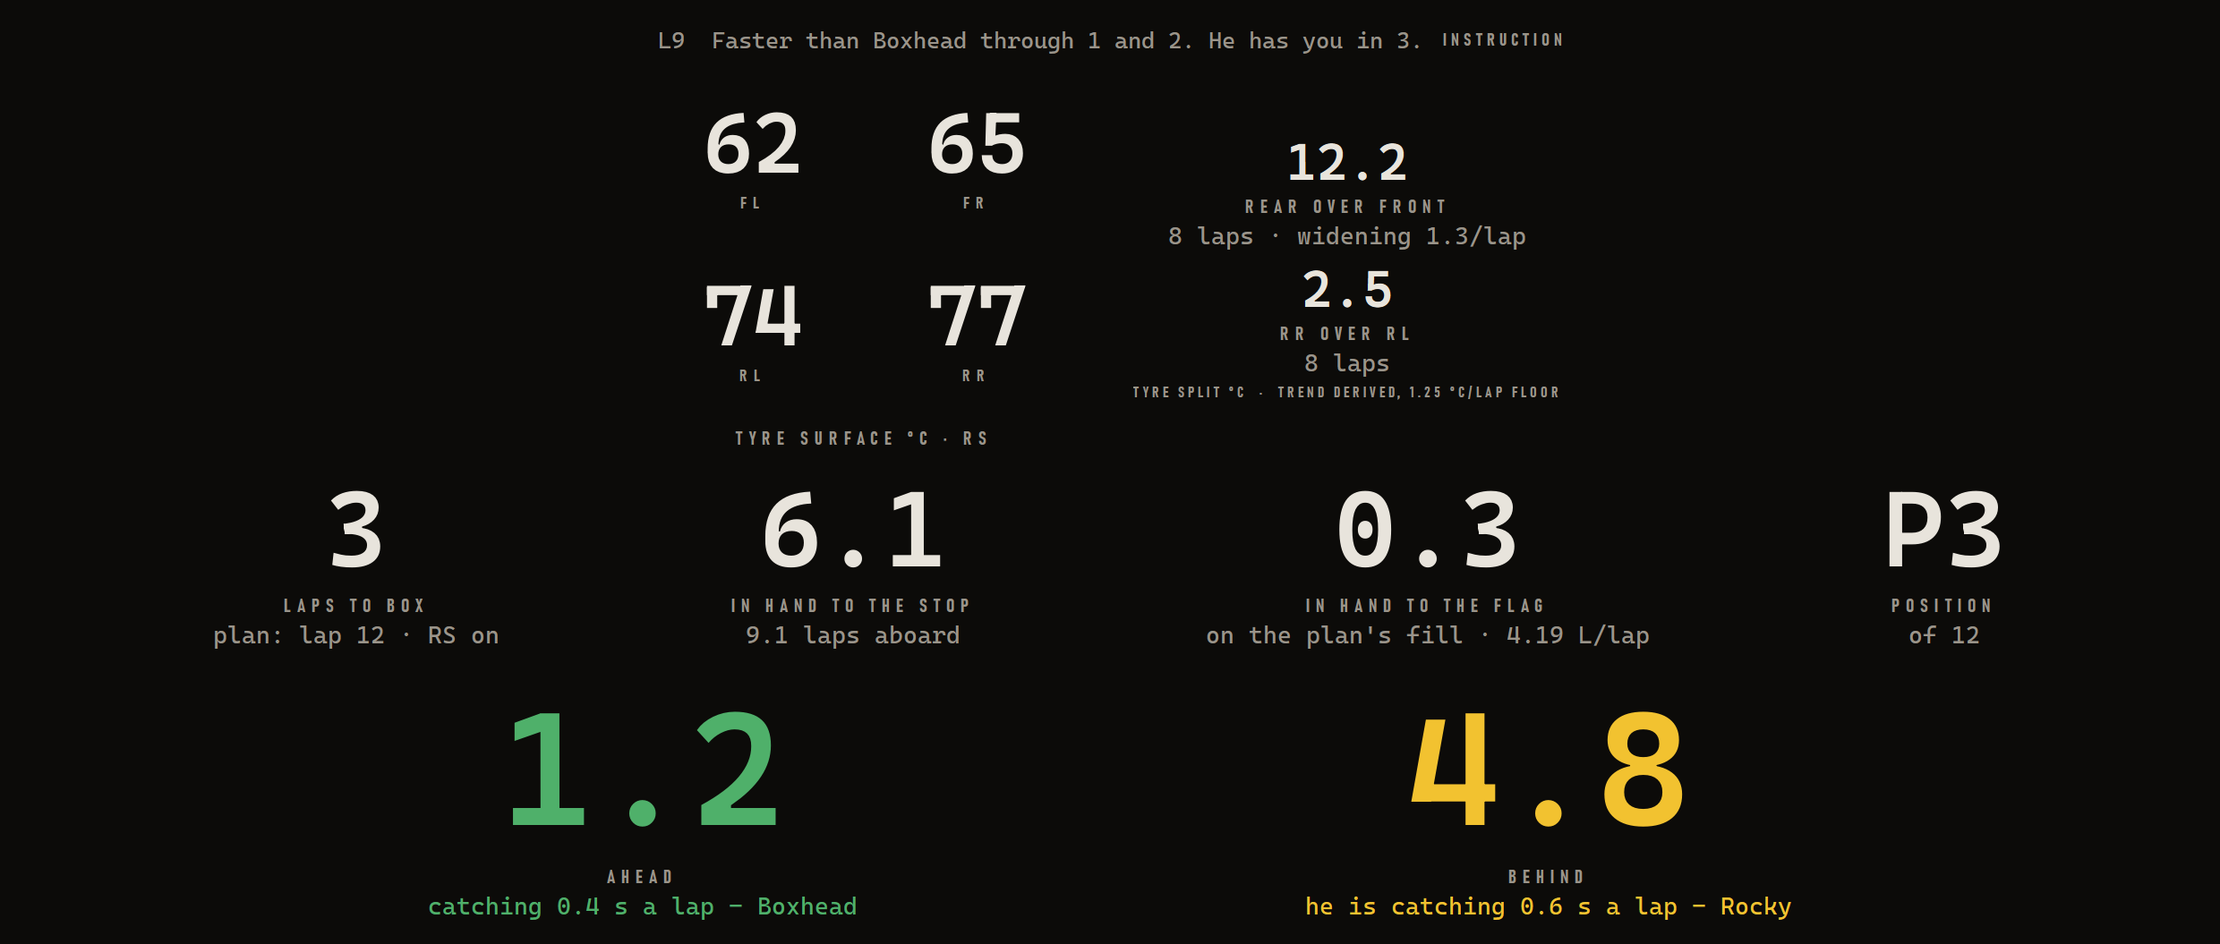
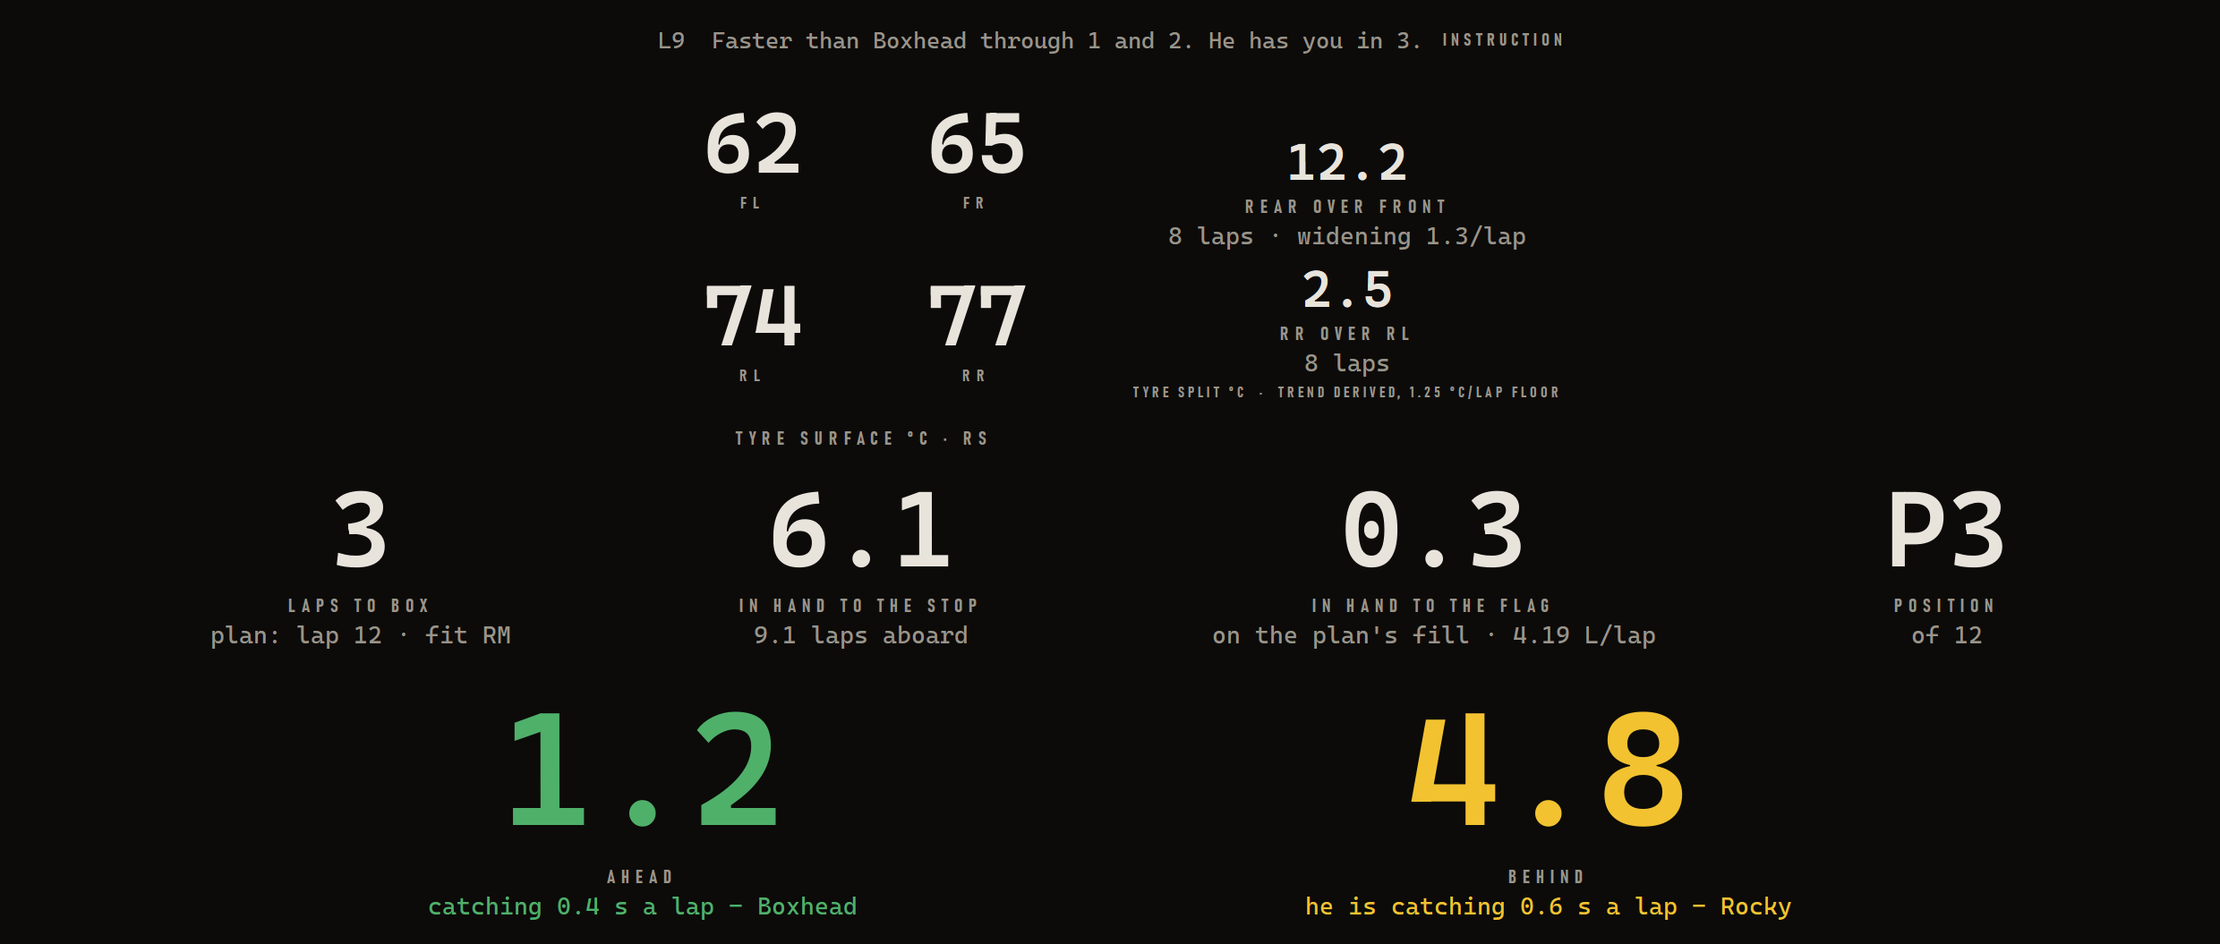
fix(board): critic round six - "no plan" for the last stint of every planned race, and two guards that could not fail
NOT AGREED on 68dbb93. Each finding driven before it was fixed.

**BLOCKER: the board said "no plan" while the plan was running, for the whole
final stint of every race.** `laps_to_stop()` returns None exactly when
`stint_ends_on_lap` is None, and `_apply_stint` sets that to None on the LAST
stint - so `elif state.laps_to_box is None: show_value("--", "no plan")`
never consulted `has_plan`. In a 20-lap one-stop race that is laps 12-20,
45% of it; in a zero-stop plan it is lights to flag. He glances up, reads
that his engineer has no plan, and has no reason to trust `IN HAND TO THE
FLAG 0.3` two blocks along, which is live and right.

This is the THIRD page the same defect has been fixed on. `_BoxPanel` carries
"the board said 'no plan' while a plan was being executed"; the `finished`
branch carries "'no plan' is the wrong thing to tell a man who has just
finished". It says `no stop still to come` now - `race/calls.py`'s own words,
so the board and the fuel block say the same thing about the same fact.

**The tyre decision went missing on the in-lap.** `past_box_lap` fires at
`to_stop == 0`, so the `laps_past_box` branch took over and `_box_caption`
was never called again - on the one lap the decision is executed, and the
whole case for the item is that it asks for a different in-lap and a
different brake balance. The voice says "Box this lap. RS on." there; the
board said nothing. One `_tyre_clause` feeds both captions now, so they
cannot drift again.
[…]

diff --git a/pitcrew/ui/driver_view.py b/pitcrew/ui/driver_view.py
@@ -347,7 +347,7 @@ from PyQt6.QtWidgets import (
 from pitcrew.store.tyres import WEAR_ONSET_C
 # The one vocabulary for how a call was meant, shared with `Call.spoken()` so
 # the word on the screen and the word in his ear are one decision (rule 12).
-from pitcrew.race.calls import MARK_UNCONFIRMED
+from pitcrew.race.calls import MARK_UNCONFIRMED, NO_STOP_TO_COME
 # The trend floor, imported rather than restated: it is derived, its
 # arithmetic is documented where it is defined, and two copies would drift.
 from pitcrew.race.tyre_split import RATE_WORTH_SAYING_C
@@ -813,8 +813,9 @@ class _Stat(QWidget):
     # four blocks across the panel and the lead rank two, so they can afford
     # different amounts; the box panel carries five. Each is the panel's own
     # room divided by the blocks on it, with the margins and the gaps between
-    # them taken off. `test_the_board_fits_his_monitor_in_the_widest_state_it
-    # _can_be_given` is what holds the arithmetic to the actual monitor.
+    # them taken off - see the note below, which is what that turned out to
+    # be worth. `test_the_board_fits_his_monitor_on_the_faces_he_actually_has`
+    # is what holds the board to the actual monitor.
     # **Two faces, and the numbers differ by 1.7.** On the rig, Cascadia Mono
     # at 27 px is 16 px a character, so the middle rank's 640 holds forty and
     # nothing on the board is elided at all. Under the offscreen platform the
@@ -822,13 +823,21 @@ class _Stat(QWidget):
     # a character - twenty-three - and the longest strings DO elide there.
     #
     # **These are not "the panel's room divided by the blocks on it."** They
-    # were described that way and the arithmetic does not hold: four middle
-    # subs at 640 measure 2,792 px offscreen and five box subs at 620 measure
-    # 3,274, both past 2,560. The board fits because the blocks do not all
-    # reach their cap at once - POSITION's sub is `of 12`. What holds the
-    # panel is `test_the_board_fits_his_monitor_on_the_faces_he_actually_has`,
-    # which measures the real faces; these caps stop any ONE reason line
-    # running away.
+    # were described that way and the arithmetic does not hold: driven to
+    # their caps the middle rank and the box page both measure past 2,560
+    # offscreen. The board fits because the blocks do not all reach their cap
+    # at once - POSITION's sub is `of 12`.
+    #
+    # **On the rig these caps never fire at all**, because his face is 16 px
+    # a character and the longest string on the board is well inside them. So
+    # what they are is insurance against a string nobody has written yet, and
+    # what holds the panel is
+    # `test_the_board_fits_his_monitor_on_the_faces_he_actually_has`. That
+    # test's HEIGHT leg bites - `GAP_PX = 210` and `LINES = 3` both fail it -
+    # and its width leg cannot, because the real-face board has some 600 px
+    # of headroom. Stated rather than engineered around: the width is not
+    # under threat and pretending a guard tests it would be worse than
+    # saying it does not.
     MIDDLE_SUB_W = 640
     GAP_SUB_W = 1100
     SPLIT_SUB_W = 700
@@ -1150,10 +1159,12 @@ class DriverWindow(QWidget):
         # board), then 2457x1031 (not reproducible - the same state measures
         # differently depending on what was drawn before it and on the face
         # the stylesheet resolves to). What IS checked is the bound:
-        # `test_the_board_fits_his_monitor_in_the_widest_state_it_can_be_given`
-        # drives every refusal string, a sixteen-character rival name, the
-        # box panel and a call three times longer than any the engineer makes,
-        # and holds the result under 2560 x 1080. This opens just inside that. It is not a free choice
+        # `test_the_board_fits_his_monitor_on_the_faces_he_actually_has`
+        # measures the real faces in a subprocess and holds 2560 x 1080; its
+        # offscreen sibling sweeps every refusal string, a sixteen-character
+        # rival name, the box page and a call three times longer than any the
+        # engineer makes, and holds a growth ceiling. This opens above the
+        # real-face minimum, and Qt grows it where a state needs more. It is not a free choice
         # - the ranks are set by how far away he is and how long a glance is,
         # and the panel is 2560x1080 - so the honest thing is to open at a
         # size the content fits in.
@@ -1396,6 +1407,15 @@ class _BoxPanel(QWidget):
             # a dash where the opposite decision gets the word NO TYRES is how
             # he takes a fuel-only stop the plan did not ask for.
             self.tyre_stat.show_value("NEW SET", "plan · set not named")
+        elif state.past_the_plan:
+            # **Past the end of the stint list is not "the plan did not name
+            # a compound".** An unplanned splash sets `past_the_plan` and
+            # leaves `next_tyres` and `next_compound` None, and this block
+            # said the plan had asked for a stop and not named a tyre while
+            # the block beside it said the plan does not reach this stop at
+            # all. He fits tyres nobody asked for - three seconds and a cold
+            # out-lap (CLAUDE.md 5.4).
+            self.tyre_stat.show_value("--", "past the plan")
         elif state.has_plan:
             self.tyre_stat.show_value("--", "plan: no compound")
         else:
@@ -1659,14 +1679,40 @@ class DriverView(QWidget):
             widget.show_value(temps.get(corner), kind, lopsided,
                               pair_gap(corner, temps),
                               (state.split_rates or {}).get(corner))
+        # **Say when there is no threshold at all.** With no compound
+        # `onset_for` is None, `classify` returns "cool", and the four
+        # numbers paint in the same white a measured-below-onset reading
+        # gets - so 96 degC on an unknown set draws exactly like 60, and this
+        # file's own docstring says that white claims "not yet wearing faster
+        # for heat". It cannot claim that with nothing to compare against.
+        # `_apply_stint(over_a_stop=True)` clears `tyre_compound` whenever
+        # the stint the stop starts names none, so it is reachable, and a
+        # plan naming no compounds leaves it None all race.
         self.tyre_caption.setText(
-            "TYRE SURFACE °C" if not state.compound
-            else f"TYRE SURFACE °C · {state.compound.upper()}")
+            f"TYRE SURFACE °C · {state.compound.upper()}" if state.compound
+            else "TYRE SURFACE °C · COMPOUND UNKNOWN, NO WEAR LINE")
         self._show_splits(state)
         self.last_call.show_call(state.last_call)
 
         if state.finished:
             self.box_stat.show_value("FLAG", "race over")
+        elif state.laps_to_box is None and state.has_plan:
+            # **A plan with no further stop is not "no plan".**
+            # `laps_to_stop()` is None exactly when `stint_ends_on_lap` is,
+            # and `_apply_stint` sets that to None on the LAST stint - so
+            # this block told him the engineer had no plan for laps 12-20 of
+            # every one-stop race, and for the whole of a zero-stop one,
+            # while `IN HAND TO THE FLAG` two blocks along was live and
+            # right. He has no reason to trust a number on a board that says
+            # nobody is planning.
+            #
+            # This is the third page this same defect has been fixed on -
+            # `_BoxPanel` carries "the board said 'no plan' while a plan was
+            # being executed" and the `finished` branch carries "'no plan' is
+            # the wrong thing to tell a man who has just finished". The words
+            # are `race/calls.py`'s, so the board and the fuel block say the
+            # same thing about the same fact (rule 13).
+            self.box_stat.show_value("--", NO_STOP_TO_COME)
         elif state.laps_to_box is None:
             self.box_stat.show_value("--", "no plan")
         elif state.laps_past_box is not None:
@@ -1674,11 +1720,16 @@ class DriverView(QWidget):
             # his box lap read "0 laps to box, box on lap 15" - the current
             # lap, every lap, with nothing saying he was late. `past_box_lap`
             # carries the sign the clamp discards.
+            # **The tyre word survives the box lap.** `past_box_lap` fires
+            # at `to_stop == 0`, so `_box_caption` stopped being called on
+            # the one lap the decision is executed - and the whole case for
+            # putting it on this block is that "fit a set" and "fuel only"
+            # ask for different in-laps and different brake balance. The
+            # voice says "Box this lap. RS on." here; the board said nothing.
+            late = ("box this lap" if state.laps_past_box <= 0 else
+                    f"{state.laps_past_box} past the box lap")
             self.box_stat.show_value(
-                "NOW",
-                "box this lap" if state.laps_past_box <= 0 else
-                f"{state.laps_past_box} past the box lap",
-                urgent=True)
+                "NOW", self._tyre_clause(state, late), urgent=True)
         else:
             self.box_stat.show_value(
                 f"{state.laps_to_box:.0f}",
@@ -1705,35 +1756,43 @@ class DriverView(QWidget):
                 f"of {state.field_size}" if state.field_size else "")
 
     @staticmethod
+    def _tyre_clause(state: DriverState, head: str) -> str:
+        """`head` with the plan's tyre decision appended, or `head` alone.
+
+        **One expression for both captions.** The countdown and the "NOW"
+        that replaces it are the same block saying the same thing about the
+        same stop, and the decision went missing from the second because they
+        were written twice.
+
+        `· fuel only` rather than `· no tyres`: it is the box panel's own
+        word for this decision, and on the running board the pair has to be
+        told apart in the dimmest ink on the screen at 200 km/h - where
+        `no tyres` and `new set` differ only in a two-word tail.
+        """
+        if state.tyres_at_stop is False:
+            return f"{head} · fuel only"
+        if state.tyres_at_stop and state.next_compound:
+            return f"{head} · fit {state.next_compound.upper()}"
+        if state.tyres_at_stop:
+            return f"{head} · fit a set"
+        # None: the plan did not say. Silence, because "fuel only" and "the
+        # plan is quiet about it" are different answers and only one of them
+        # is a decision he can act on.
+        return head
+
+    @staticmethod
     def _box_caption(state: DriverState) -> str:
         """What sits under the laps-to-box figure: the lap, and the decision.
 
         **The tyre decision moved here from the box panel**, where he could
-        only read it once he was stationary and it was already being executed.
-        "RS on" and "no tyres" ask for different in-laps and different brake
-        balance, and the plan has said which since before the green.
+        only read it once he was stationary and it was already being
+        executed. "Fit RS" and "fuel only" ask for different in-laps and
+        different brake balance, and the plan has said which since before the
+        green.
         """
-        # `is None`, not truthiness: it is a lap number, and rule 3 is about
-        # a zero that means "not measured" being read as a real value.
-        # Unreachable through the controller - `lap_on_screen()` floors at 1 -
-        # but the shape is the one this board keeps getting caught by.
         if state.box_on_lap is None:
             return ""
-        plan = f"plan: lap {state.box_on_lap}"
-        if state.tyres_at_stop is False:
-            return f"{plan} · no tyres"
-        # **`next_compound`, never `compound`.** See the field's own note: on
-        # track the second is the set he is ON, and captioning that as the
-        # plan's decision named the wrong tyre on exactly the stops this
-        # caption exists for.
-        if state.tyres_at_stop and state.next_compound:
-            return f"{plan} · {state.next_compound.upper()} on"
-        if state.tyres_at_stop:
-            return f"{plan} · new set"
-        # None: the plan did not say. Silence, because "fuel only" and "the
-        # plan is quiet about it" are different answers and only one of them
-        # is a decision he can act on.
-        return plan
+        return DriverView._tyre_clause(state, f"plan: lap {state.box_on_lap}")
 
     def _show_fuel(self, state: DriverState) -> None:
         """The two in-hand figures, each against the distance it names.

diff --git a/pitcrew/tests/test_driver_board_items.py b/pitcrew/tests/test_driver_board_items.py
@@ -549,7 +549,10 @@ def test_the_tyre_decision_reaches_him_before_he_is_stationary(qt_app):
     view = DriverView()
     view.update_state(DriverState(laps_to_box=4, box_on_lap=11,
                                   tyres_at_stop=False, compound="RS"))
-    assert view.box_stat.sub.text() == "plan: lap 11 · no tyres"
+    # `_sub_text`, the string the block was given: `plan: lap 11 · fuel
+    # only` is 24 characters, which the middle rank holds on the rig at
+    # 16 px a character and elides under the offscreen test font at 27.
+    assert view.box_stat._sub_text == "plan: lap 11 · fuel only"
     # **The set going ON, not the set he is on**, and the two are given here
     # as the controller gives them: `compound` is what is bolted to the car,
     # `next_compound` is the plan's decision. Built with only `compound`,
@@ -559,7 +562,7 @@ def test_the_tyre_decision_reaches_him_before_he_is_stationary(qt_app):
     view.update_state(DriverState(laps_to_box=4, box_on_lap=11,
                                   tyres_at_stop=True, compound="RM",
                                   next_compound="RS"))
-    assert "RS on" in view.box_stat.sub.text()
+    assert "fit RS" in view.box_stat.sub.text()
     assert "RM" not in view.box_stat.sub.text()
     # **A plan that did not say is silent.** "Fuel only" and "the plan is
     # quiet about it" are different answers and only one is a decision.
@@ -824,6 +827,13 @@ def test_the_board_fits_his_monitor_on_the_faces_he_actually_has():
         from pitcrew.ui.driver_view import DriverState, DriverView, GapView
         from pitcrew.race import calls as C
         view = DriverView()
+        # **Shown, like its offscreen sibling.** Without this the widget is
+        # never laid out and its width hint comes back 784 px light - 1154
+        # against 1938 - so the width leg could not fail however wide the
+        # caps were set. The height leg was right either way.
+        view.resize(2480, 1050)
+        view.show()
+        app.processEvents()
         name = "AVeryLongPSNid16"
         worst = (0, 0)
         states = []
@@ -866,6 +876,11 @@ def test_the_board_fits_his_monitor_on_the_faces_he_actually_has():
     if "skip" in got:
         pytest.skip(f"no real faces to measure: {got['skip']}")
     # 2560 x 1080, and the window is frameless with no resize handle.
+    # **The height leg is the one that bites.** `GAP_PX = 210` and
+    # `LINES = 3` both fail it, which is what it exists for. The width leg
+    # cannot fail on anything reachable - the real-face board has some 600 px
+    # of headroom - and that is worth asserting anyway and worth saying
+    # plainly rather than dressing up as a test of the caps.
     assert got["h"] <= 1080, got
     assert got["w"] <= 2560, got
 
@@ -908,7 +923,12 @@ def test_a_dash_on_the_flag_block_carries_a_reason_and_not_a_burn(qt_app):
     view.update_state(DriverState(fuel_to_flag=None, burn_l=4.19,
                                   fuel_to_flag_on="on the plan's fill"))
     assert view.flag_stat.value.text() == "--"
-    assert "4.19" not in view.flag_stat.sub.text()
+    # **The string the block was GIVEN.** Asserted on the rendered label this
+    # passed with the defect reinstated: offscreen the sub elides at 640 px
+    # to `on the plan's fill · 4…`, so the burn was cut by the harness's font
+    # rather than by the code. On the rig the mutant renders the whole thing.
+    assert "4.19" not in view.flag_stat._sub_text
+    assert view.flag_stat._sub_text == "not measured"
 
 
 def test_a_stop_that_sizes_to_zero_litres_is_not_a_stop_nobody_sized(qt_app):

diff --git a/pitcrew/race/calls.py b/pitcrew/race/calls.py
@@ -3197,14 +3197,15 @@ def fuel_in_hand(state: RaceState) -> tuple[float | None, str]:
 # and four blocks on one row took the board past the 2,560 of his monitor - on
 # a frameless window with no resize handle, which Qt answers by growing it off
 # the screen rather than by dropping anything. Keep them to about twenty
-# characters. The longest here is twenty-four, which the middle rank holds
+# characters. The longest here is twenty-one, which the middle rank holds
 # with room to spare on the rig - its 640 px is forty characters at Cascadia
 # Mono's real 16 px, not the twenty-three an earlier note claimed off the
-# offscreen test font.
+# offscreen test font. (An earlier revision of this line said twenty-four;
+# measured, the four longest are all twenty-one.)
 #
 # **The bound is enforced in the widget, not by this convention.**
 # `_Stat.set_sub_width` elides every reason line to the room its rank has, and
-# `test_the_board_fits_his_monitor_in_the_widest_state_it_can_be_given` holds
+# `test_the_board_fits_his_monitor_on_the_faces_he_actually_has` holds
 # the whole board against the real panel. Keeping the strings short is what
 # stops him reading an ellipsis instead of an answer.
 NO_STOP_TO_COME = "no stop still to come"

diff --git a/pitcrew/ui/preview.py b/pitcrew/ui/preview.py
@@ -127,7 +127,11 @@ def sample_board() -> DriverState:
         # **The compound the plan says to FIT.** Without it the artefact
         # draws `plan: lap 12 · new set` and pictures none of what the last
         # two rounds were about - the board naming the set coming OFF.
-        tyres_at_stop=True, next_compound="RS", has_plan=True,
+        # **A DIFFERENT compound from the one on the car**, so the picture
+        # shows the thing two rounds of critics were about: the board naming
+        # the set going ON. With both set to "RS" the artefact was identical
+        # to what the defect would have drawn.
+        tyres_at_stop=True, next_compound="RM", has_plan=True,
         laps_of_fuel=state.laps_of_fuel(), burn_l=state.fuel_per_lap_l,
         fuel_to_stop=to_stop, fuel_to_stop_why=stop_why,
         fuel_to_flag=to_flag, fuel_to_flag_why=flag_why,

diff --git a/pitcrew/tests/test_driver_board.py b/pitcrew/tests/test_driver_board.py
@@ -85,7 +85,12 @@ def test_the_box_shows_the_fill_target_and_what_is_aboard(app):
     view.update_state(DriverState(
         in_box=True, fuel_target_l=74.0, fuel_l=31.0, release_in_s=43.0))
     assert view.box.fuel_stat.value.text() == "74"
-    assert "31" in view.box.fuel_stat.sub.text()
+    # **The word, not just the number.** `31` alone passes for `31 L`,
+    # which is what this was shortened to once - and `31 L` under a big `63`
+    # does not say which is the tank and which is the target. `aboard` is the
+    # word that separates them, and the running board uses `laps aboard` for
+    # the same idea.
+    assert "31 aboard" in view.box.fuel_stat._sub_text
     assert view.box.release_stat.value.text() == "43"
 
 

diff --git a/pitcrew/tests/test_driver_board_state.py b/pitcrew/tests/test_driver_board_state.py
@@ -1255,5 +1255,5 @@ def test_the_box_caption_names_the_set_going_on_not_the_one_coming_off():
     assert got.next_compound == "RH"
     view = DriverView()
     view.update_state(got)
-    assert "RH on" in view.box_stat.sub.text()
+    assert "fit RH" in view.box_stat.sub.text()
     assert "RM" not in view.box_stat.sub.text()
